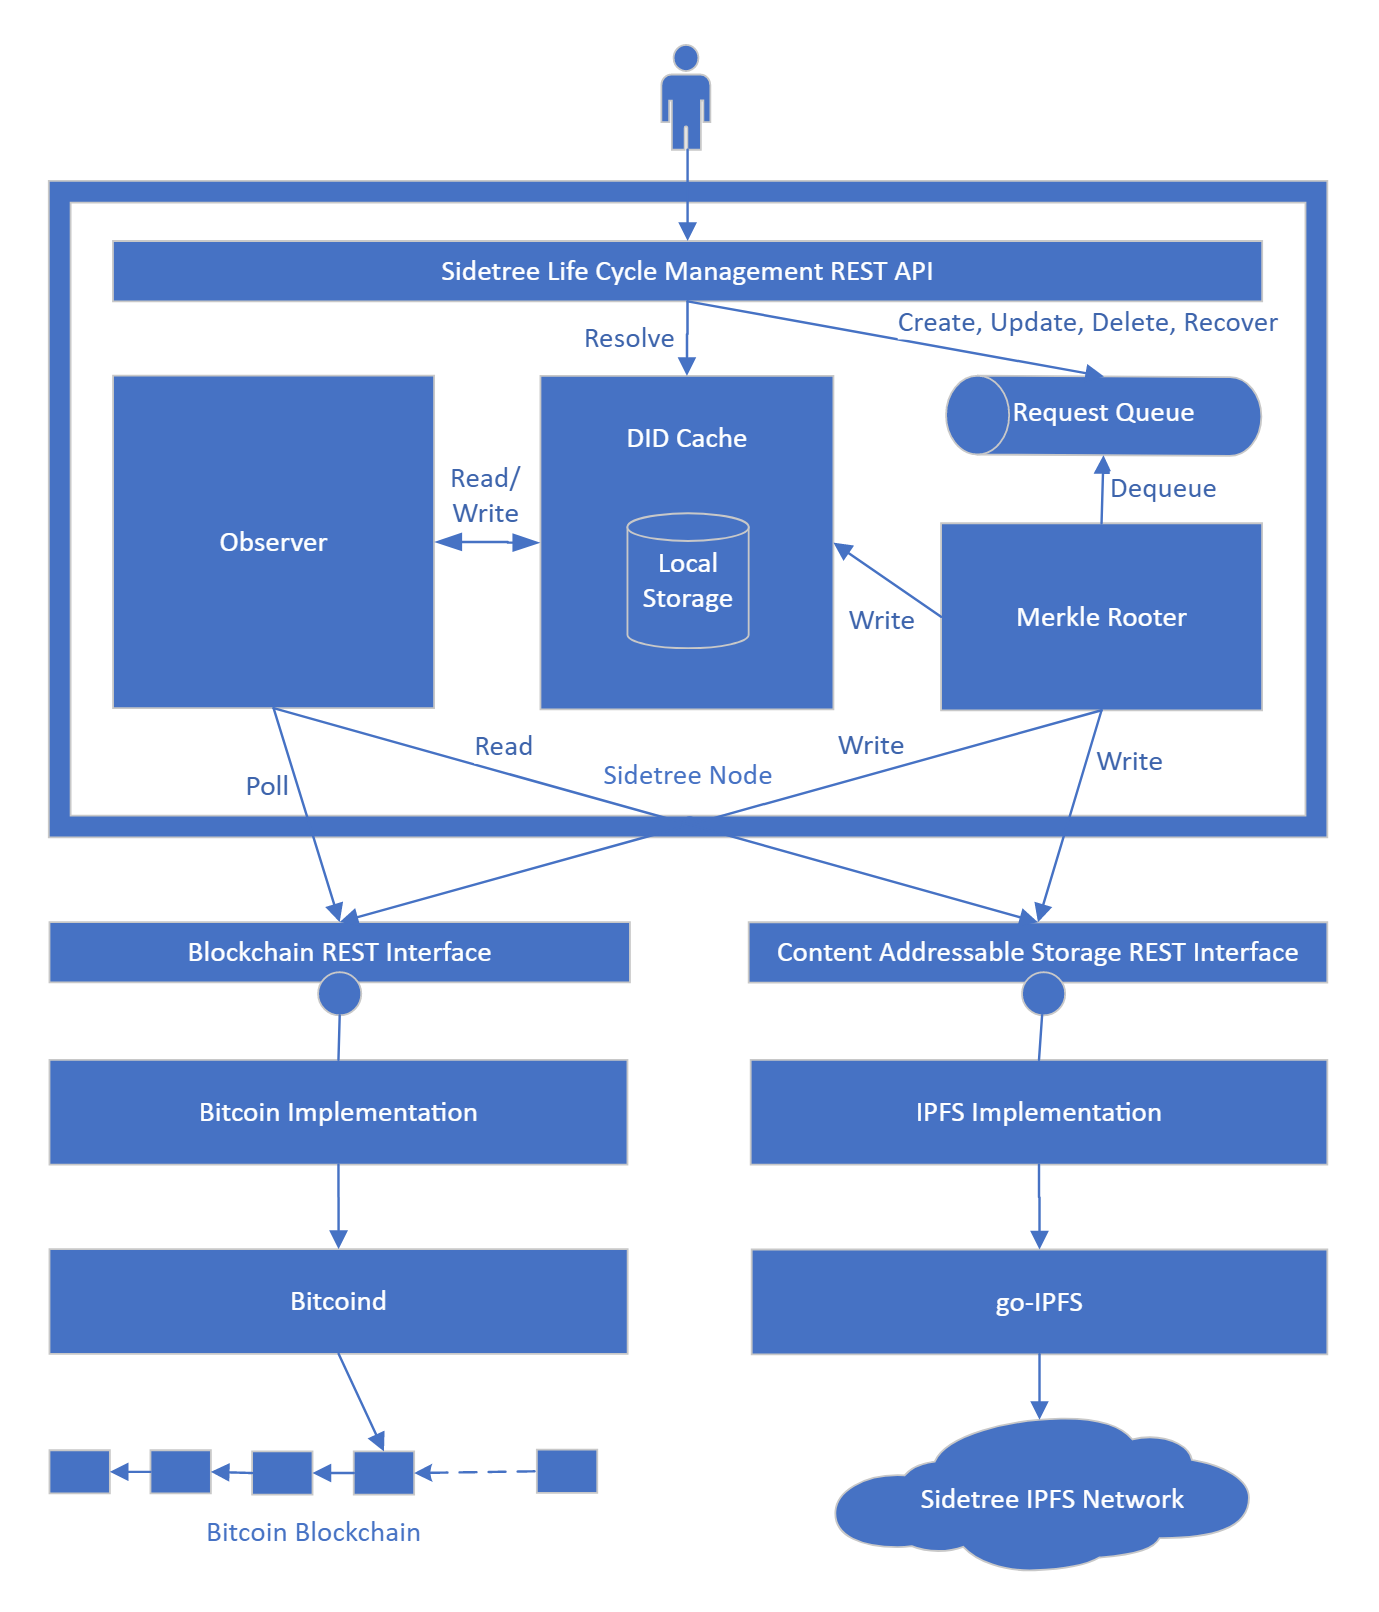
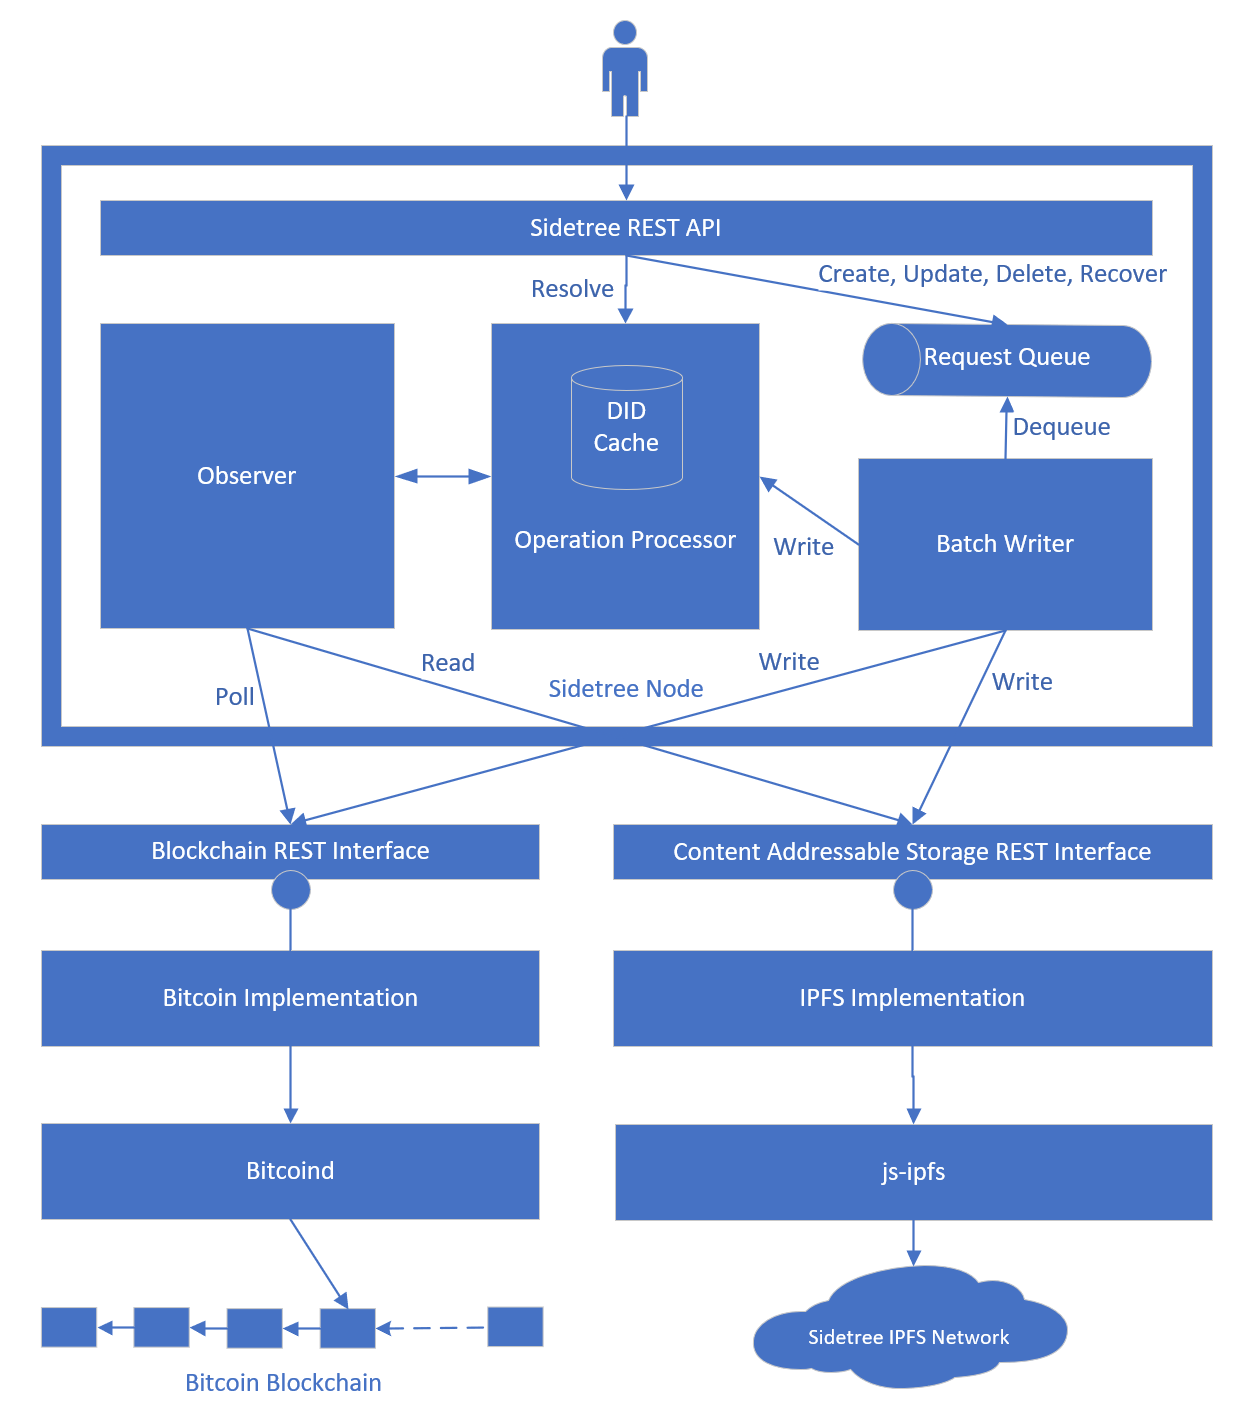
Documentation - Updated the implementation architecture diagram.

diff --git a/docs/protocol.md b/docs/protocol.md
@@ -101,7 +101,7 @@ The _anchor file_ is a JSON document of the following schema:
 ```
 > NOTE: See [Sidetree Operation Receipts](#Sidetree-Operation-Receipts) section on purpose and construction of the `merkleRoot`.
 
-## Operation chaining of a DID:
+## Operation chaining of a DID
 ![DID Operation Chaining](./diagrams/operationChaining.png)
 
 
